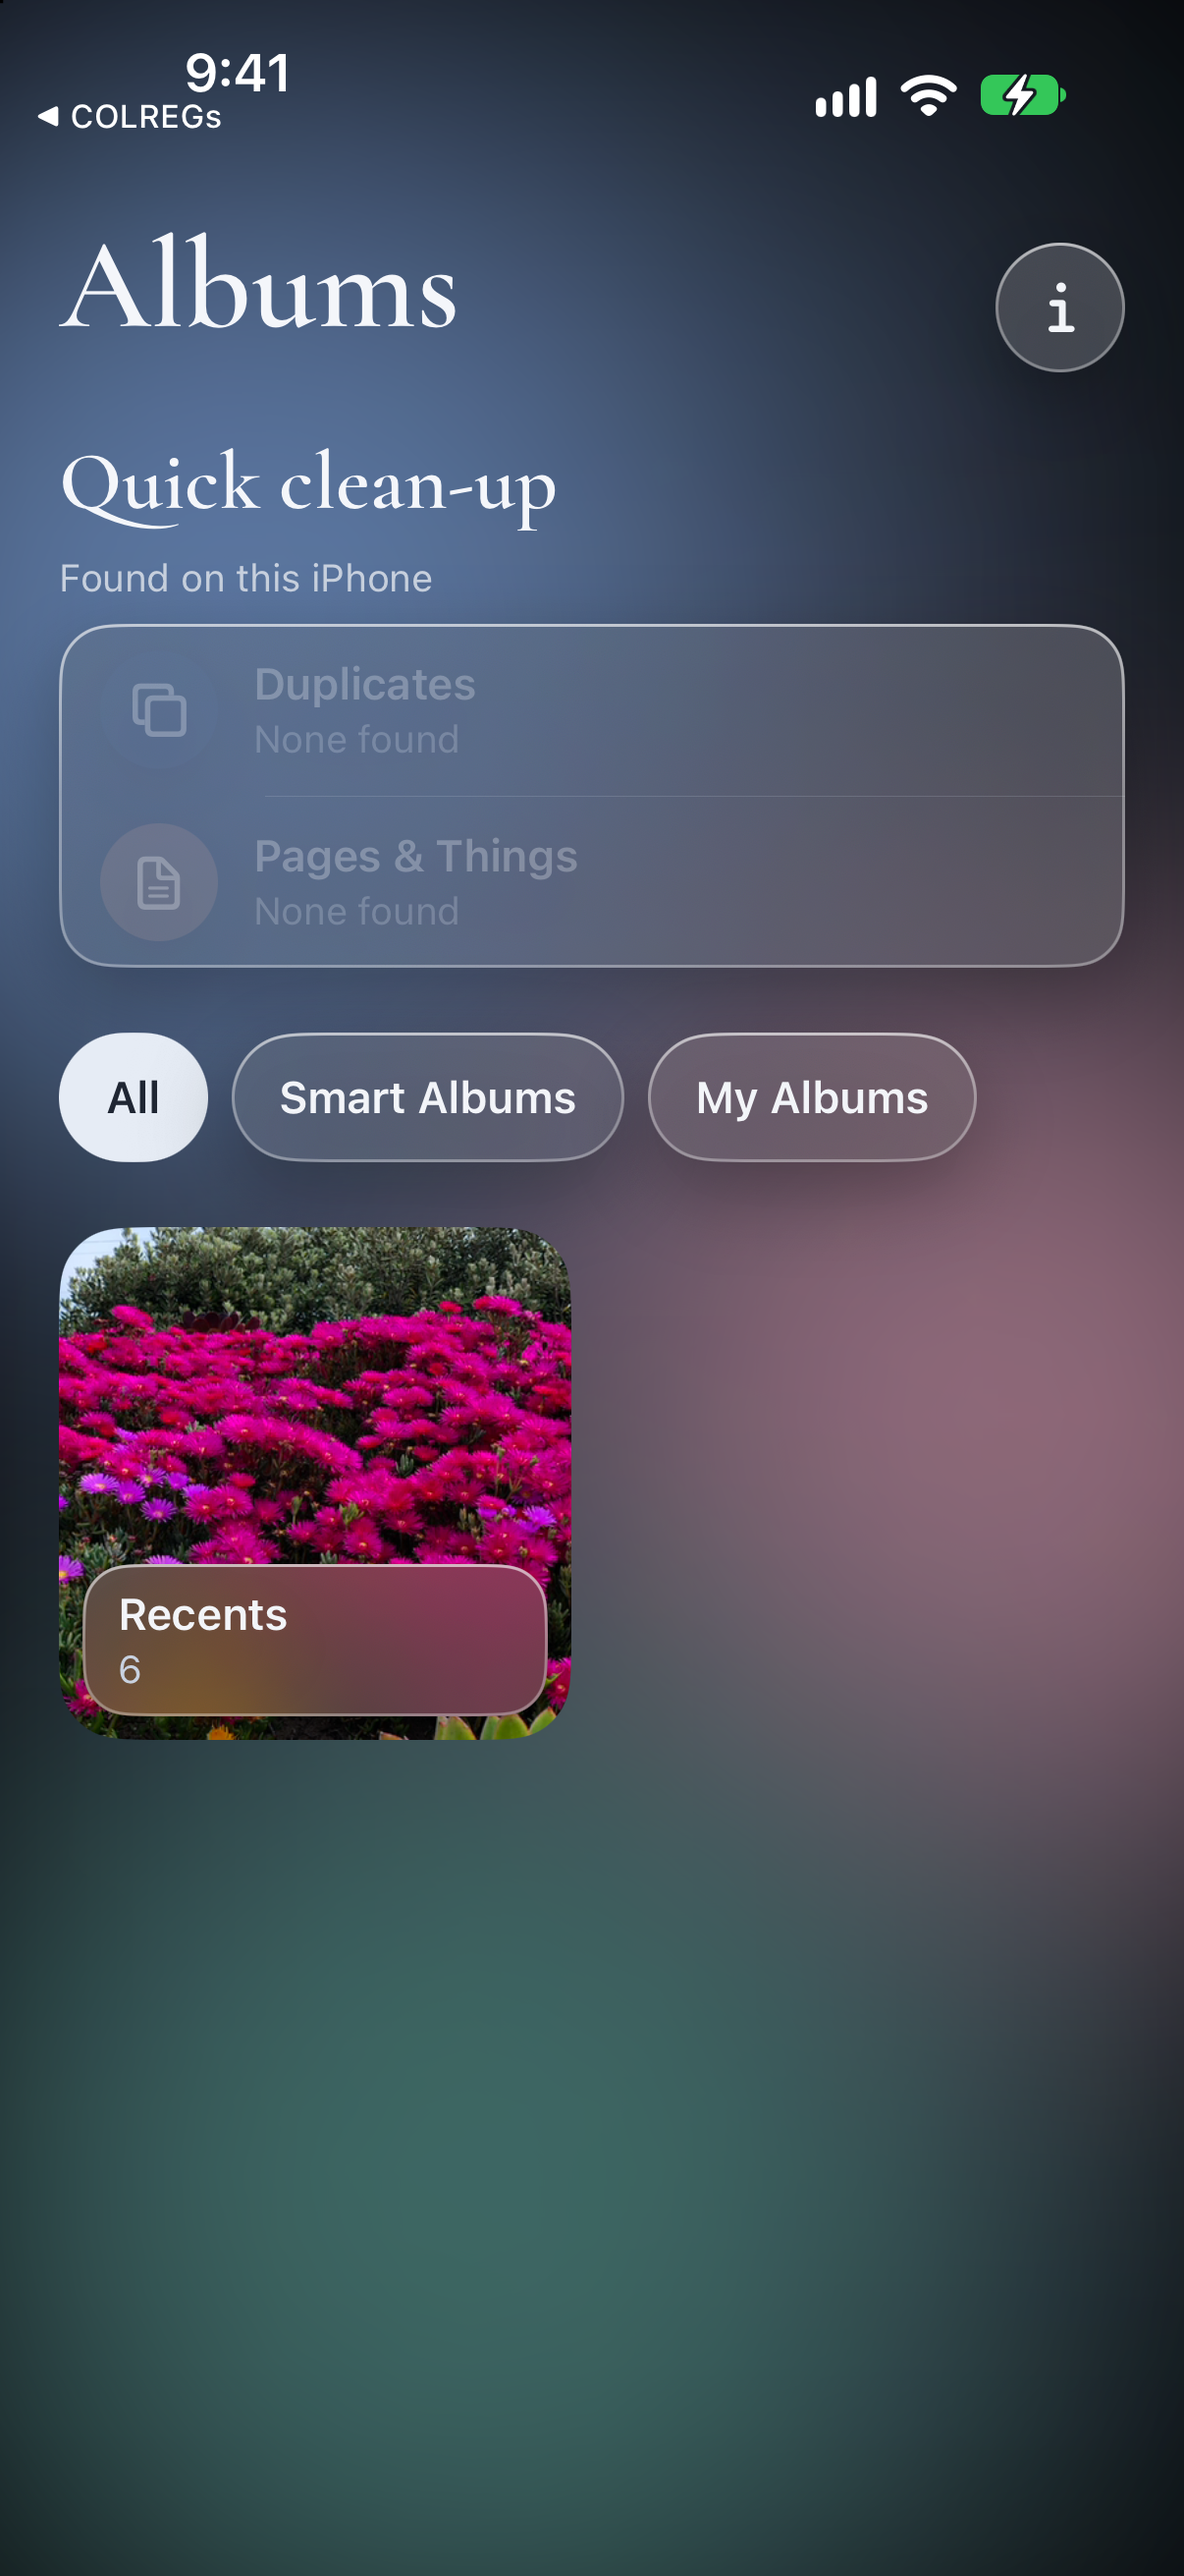
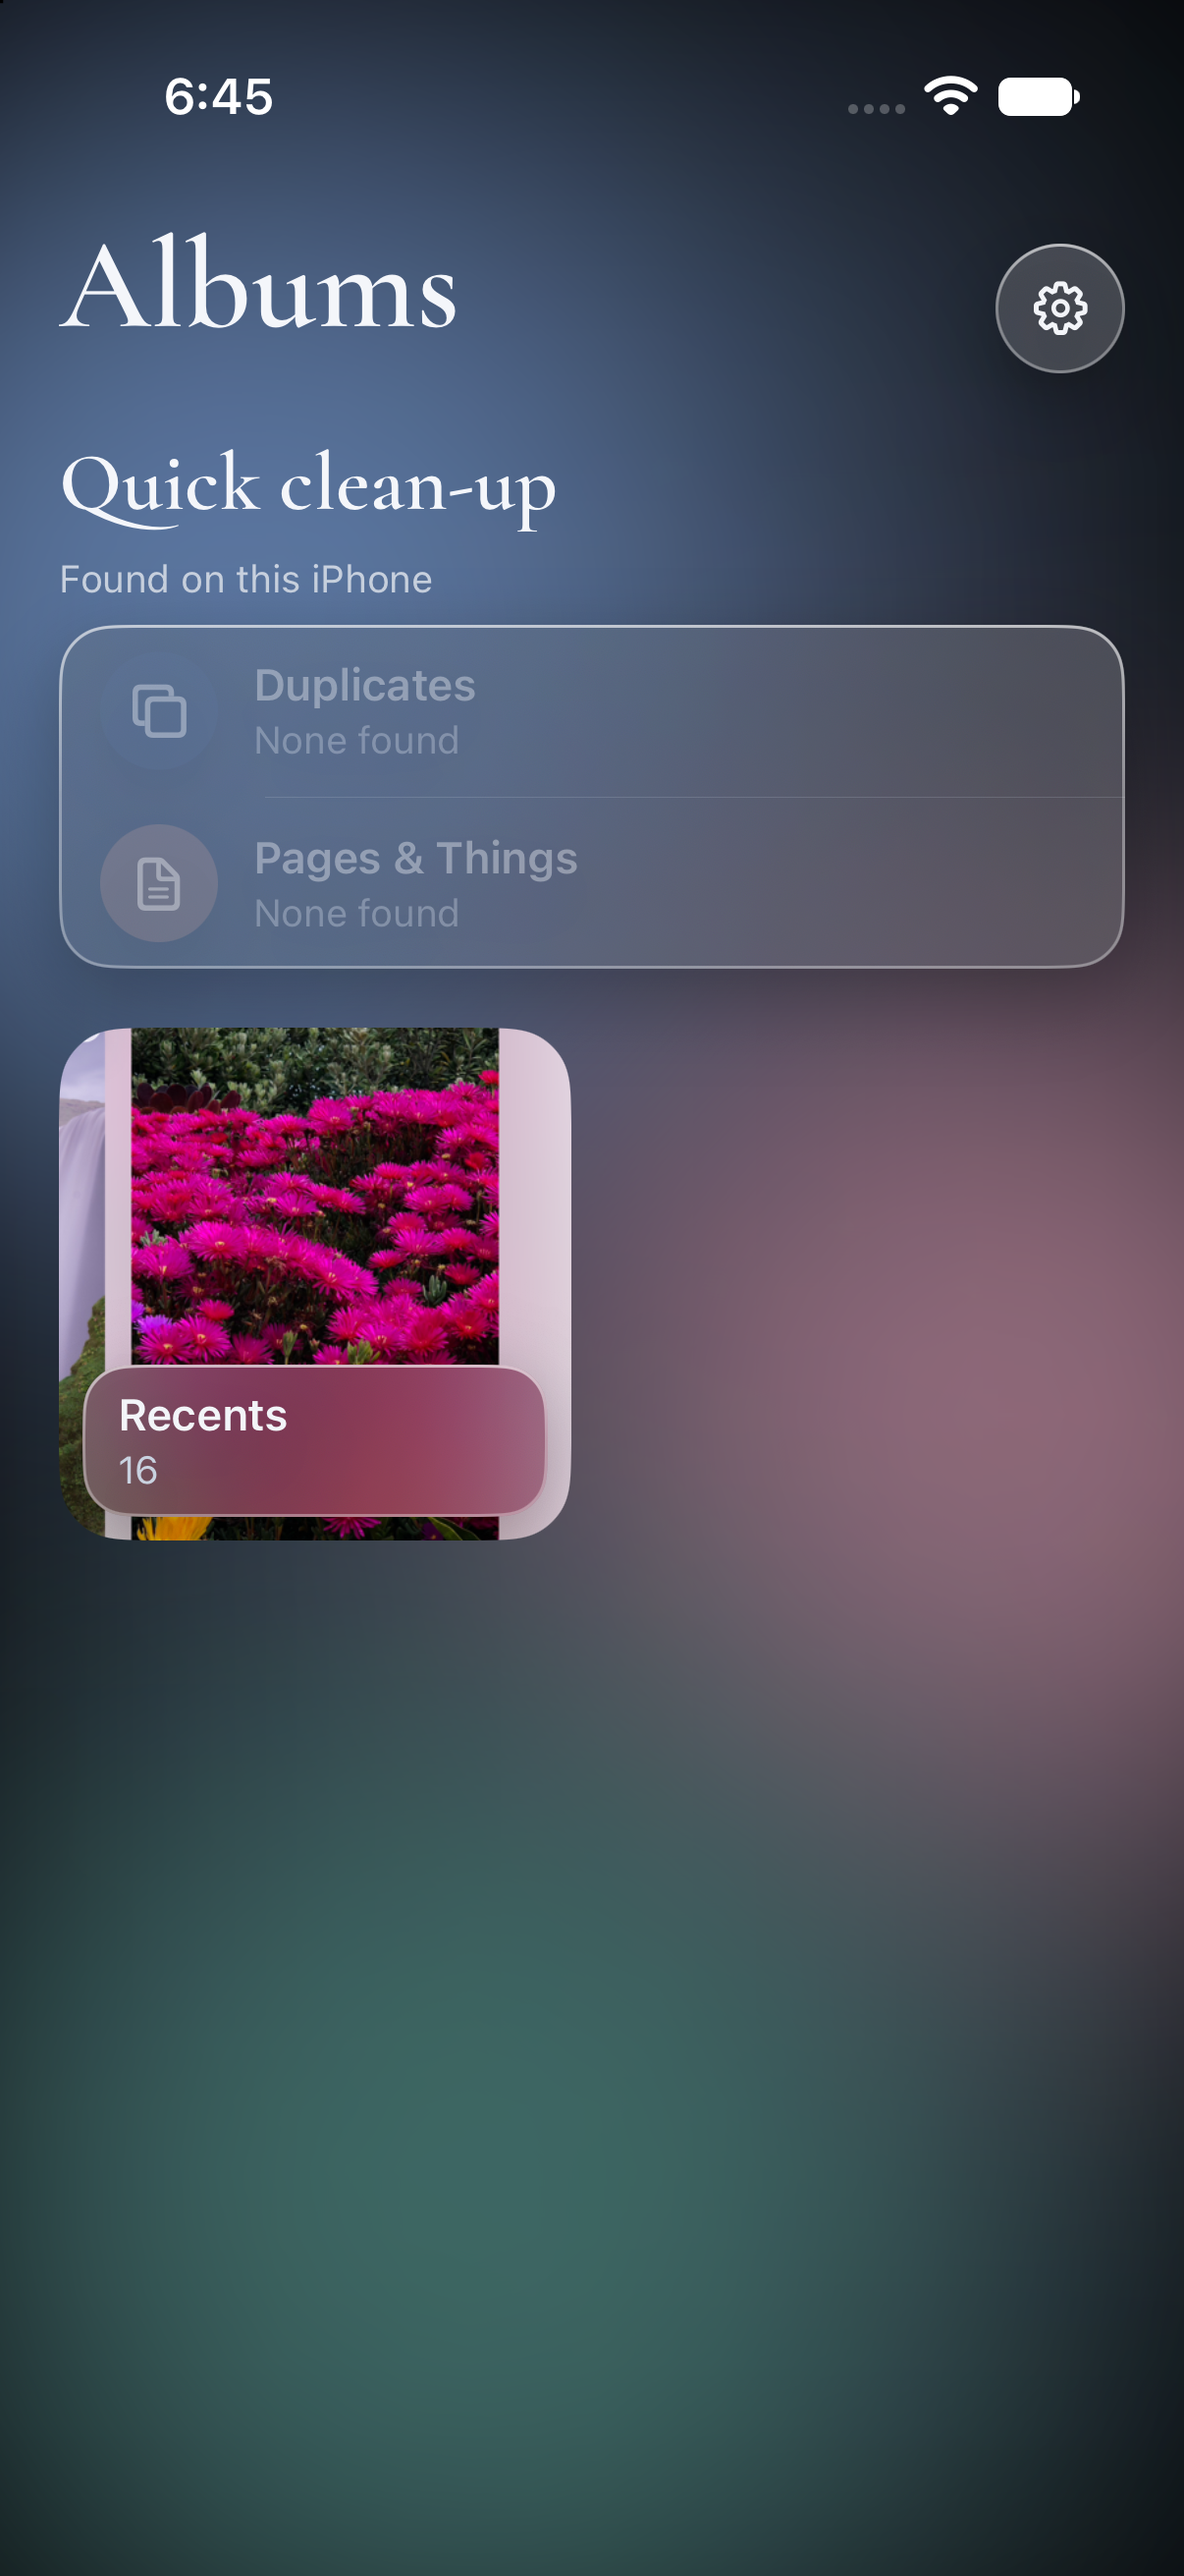
Remove Albums filter chips; recapture screenshots (Change 37)

diff --git a/Packages/SwipeFeatures/Sources/SwipeFeatures/AlbumsView.swift b/Packages/SwipeFeatures/Sources/SwipeFeatures/AlbumsView.swift
@@ -2,12 +2,6 @@ import SwiftUI
 import SwipeCore
 import SwipeUI
 
-extension AlbumFilter {
-    var title: String {
-        switch self { case .all: "All"; case .smart: "Smart Albums"; case .mine: "My Albums" }
-    }
-}
-
 public struct AlbumsView: View {
     let model: AppModel
     @Environment(\.colorScheme) private var scheme
@@ -23,7 +17,6 @@ public struct AlbumsView: View {
                 header(t)
                 if model.status == .limited { limitedRow(t) }
                 if model.cleanupEnabled { QuickCleanupPanel(model: model) }
-                chips(t)
                 content(t)
             }
             .padding(.horizontal, 20)
@@ -71,33 +64,6 @@ public struct AlbumsView: View {
         .accessibilityLabel("Limited access. Manage selection")
     }
 
-    private func chips(_ t: Theme) -> some View {
-        let all = ForEach(AlbumFilter.allCases, id: \.self) { f in
-            let on = model.filter == f
-            Button { model.filter = f } label: {
-                Text(f.title)
-                    .font(.subheadline.weight(.semibold))
-                    .foregroundStyle(Color(hex: on ? t.pillText : t.text))
-                    .padding(.horizontal, 16).frame(minHeight: 44)
-                    .background { if on { Capsule().fill(Color(hex: t.pillFill)) } }
-                    .glassIf(!on, in: Capsule())
-            }
-            .buttonStyle(.plain)
-            .accessibilityAddTraits(on ? .isSelected : [])
-        }
-        return Group {
-            if typeSize.isAccessibilitySize {
-                // Big text: stacked, so no chip is cut off at the screen edge.
-                VStack(alignment: .leading, spacing: 8) { all }
-            } else {
-                ScrollView(.horizontal, showsIndicators: false) {
-                    HStack(spacing: 8) { all }.padding(.vertical, 2)
-                }
-                .scrollClipDisabled()
-            }
-        }
-    }
-
     @ViewBuilder private func content(_ t: Theme) -> some View {
         let albums = model.visibleAlbums
         if !model.hasLoadedAlbums {
@@ -120,12 +86,6 @@ public struct AlbumsView: View {
                 }
             }
         }
-    }
-}
-
-private extension View {
-    @ViewBuilder func glassIf<S: InsettableShape>(_ on: Bool, in shape: S) -> some View {
-        if on { glass(in: shape) } else { self }
     }
 }
 

diff --git a/media/screenshots/INDEX.md b/media/screenshots/INDEX.md
@@ -14,7 +14,7 @@ Naming: `<NN>-<screen>-<state>-<light|dark>.png`
 | 04 | review |
 | 05 | paywall |
 | 06 | done |
-| 07 | about |
+| 07 | settings |
 
 | File | Build / commit | Date | Device |
 |---|---|---|---|
@@ -22,15 +22,16 @@ Naming: `<NN>-<screen>-<state>-<light|dark>.png`
 | 01-welcome-undetermined-light.png | Stage 3 (Welcome, undetermined) | 2026-11-18 | iPhone 18 Pro simulator |
 | 01-welcome-denied-dark.png | Stage 3 (Welcome, denied) | 2026-11-18 | iPhone 18 Pro simulator |
 | 01-welcome-denied-light.png | Stage 3 (Welcome, denied) | 2026-11-18 | iPhone 18 Pro simulator |
-| 02-albums-dark.png | Stage 4 (Albums) | 2026-11-18 | iPhone 18 Pro simulator |
-| 02-about-dark.png | OUTDATED: About sheet replaced by Settings (D-24), recapture needed. Stage 4 | 2026-11-18 | iPhone 18 Pro simulator |
-| 02-about-light.png | OUTDATED: About sheet replaced by Settings (D-24), recapture needed. Stage 4 | 2026-11-18 | iPhone 18 Pro simulator |
-| 03-swipe-dark.png | Stage 5 (Swipe) | 2026-11-18 | iPhone 18 Pro simulator |
-| 03-swipe-light.png | Stage 5 (Swipe) | 2026-11-18 | iPhone 18 Pro simulator |
-| 03-swipe-end-dark.png | Stage 5 (end card) | 2026-11-18 | iPhone 18 Pro simulator |
+| 02-albums-dark.png | Albums, no filter chips, Change 37 build (881bddc + chip removal) | 2026-11-19 | iPhone 17 simulator (1206x2622) |
+| 02-albums-light.png | Albums, no filter chips, Change 37 build (881bddc + chip removal) | 2026-11-19 | iPhone 17 simulator (1206x2622) |
+| 03-swipe-dark.png | Swipe: Cover Flow ring, dots, bar, Change 37 build (881bddc + chip removal) | 2026-11-19 | iPhone 17 simulator (1206x2622) |
+| 03-swipe-light.png | Swipe: Cover Flow ring, dots, bar, Change 37 build (881bddc + chip removal) | 2026-11-19 | iPhone 17 simulator (1206x2622) |
+| 03-select-grid-light.png | Multi-select grid, Change 37 build (881bddc + chip removal) | 2026-11-19 | iPhone 17 simulator (1206x2622) |
 | 04-review-ios-prompt-dark.png | Stage 6 (Review with the real iOS delete prompt) | 2026-11-18 | iPhone 18 Pro simulator |
-- 05-albums-quick-cleanup-dark.png — Stage 6b: Quick clean-up panel, simulator (6 photos, scan finished, none found)
-- 06-about-pro-rows-dark.png — Stage 7: About sheet with Pro rows, simulator without a store file ("Price unavailable", Unlock disabled)
-- 07-swipe-video-card.png — Stage 8: video card with play button and "VIDEO · 0:10" (simulator)
-- 08-video-fullscreen-playing.png — Stage 8: full-screen video playing (two screenshots 2 s apart differed)
-- 09-albums-ax5.png — Stage 9: Albums at accessibility-extra-extra-extra-large Dynamic Type; titles wrap, filter chips stack (simulator)
+| 05-albums-quick-cleanup-dark.png | Albums with Quick clean-up panel, Change 37 build (881bddc + chip removal) | 2026-11-19 | iPhone 17 simulator (1206x2622) |
+| 07-settings-dark.png | Settings, Change 37 build (881bddc + chip removal) | 2026-11-19 | iPhone 17 simulator (1206x2622) |
+| 07-settings-light.png | Settings, Change 37 build (881bddc + chip removal) | 2026-11-19 | iPhone 17 simulator (1206x2622) |
+| 09-albums-ax5.png | Albums at AX5 Dynamic Type, dark, Change 37 build (881bddc + chip removal) | 2026-11-19 | iPhone 17 simulator (1206x2622) |
+| 08-video-fullscreen-playing.png | Stage 8: full-screen video playing (not re-checked against current build) | 2026-11-18 | iPhone 18 Pro simulator |
+
+Still to recapture: swipe end card, video card (removed as outdated; need a Done state and a video in the simulator library). Note: the photos in the simulator library include earlier app screenshots, so the card inside the ring shows a nested app screen.

diff --git a/MASTER.md b/MASTER.md
@@ -456,3 +456,8 @@ Quick clean-up panel capped at 560 pt. Re-checked on an iPhone SE (3rd gen) simu
 - **Verified:** `swift test` in SwipeFeatures, 49 tests pass.
 - **Not verified:** not built or run in the simulator, so the ring, dots and select grid are not visually confirmed. Screenshots in `media/screenshots/` are still the old ones. The `be21d03` Privacy/Terms/Photo Access/Support rows are gone from the app (Settings replaced About); the owner has not yet said whether to bring them back.
 - **Lesson:** after any merge, diff the result against both parents before committing; "keep one side" merges delete the other side's features.
+
+## Change 37 — Remove Albums filter chips; recapture screenshots
+- **What:** owner said the All / Smart Albums / My Albums chips "are not working", so they were removed from `AlbumsView` (chips, title extension, `glassIf`). `AppModel.filter` and `visibleAlbums` still exist but nothing sets them (not removed; not asked). `DESIGN_BRIEF.md` chip line struck through. Screenshots recaptured after Changes 36–37: Albums (dark, light, AX5, quick clean-up), Swipe (dark, light), select grid (light), Settings (dark, light). Removed outdated About shots, the swipe end card and video card.
+- **Verified:** `swift test` passed (49); simulator build (iPhone 17) launched, Albums has no chips, Recents opens the ring screen with dots and Delete/Undo/Keep bar, Select opens the grid, Settings opens; physical iPhone build installed and launch command succeeded.
+- **Not verified:** the phone itself was not looked at (only launched); swipe gesture, animation motion and select-grid dragging were not exercised, only that screens render; end card and video card shots still missing; Select grid dark and Settings AX5 not captured; welcome and video-fullscreen shots predate this build.

diff --git a/DESIGN_BRIEF.md b/DESIGN_BRIEF.md
@@ -88,7 +88,7 @@ Dawn values were corrected on 2026-11-18 after a contrast check (see
     2 pt progress hairline under the row; the count grows as results arrive.
     Reduce Motion: no animated hairline, text only.
   - Nothing found: "None found", dimmed, not a button.
-- Glass filter chips: All / Smart Albums / My Albums.
+- ~~Glass filter chips: All / Smart Albums / My Albums.~~ Removed 2026-11-19 (owner: not working); Albums shows one list.
 - Two-column grid of album tiles (radius 22) with a glass caption bar: name and
   count. Empty albums hidden.
 - Limited access → a glass row "Limited access · Manage selection".
